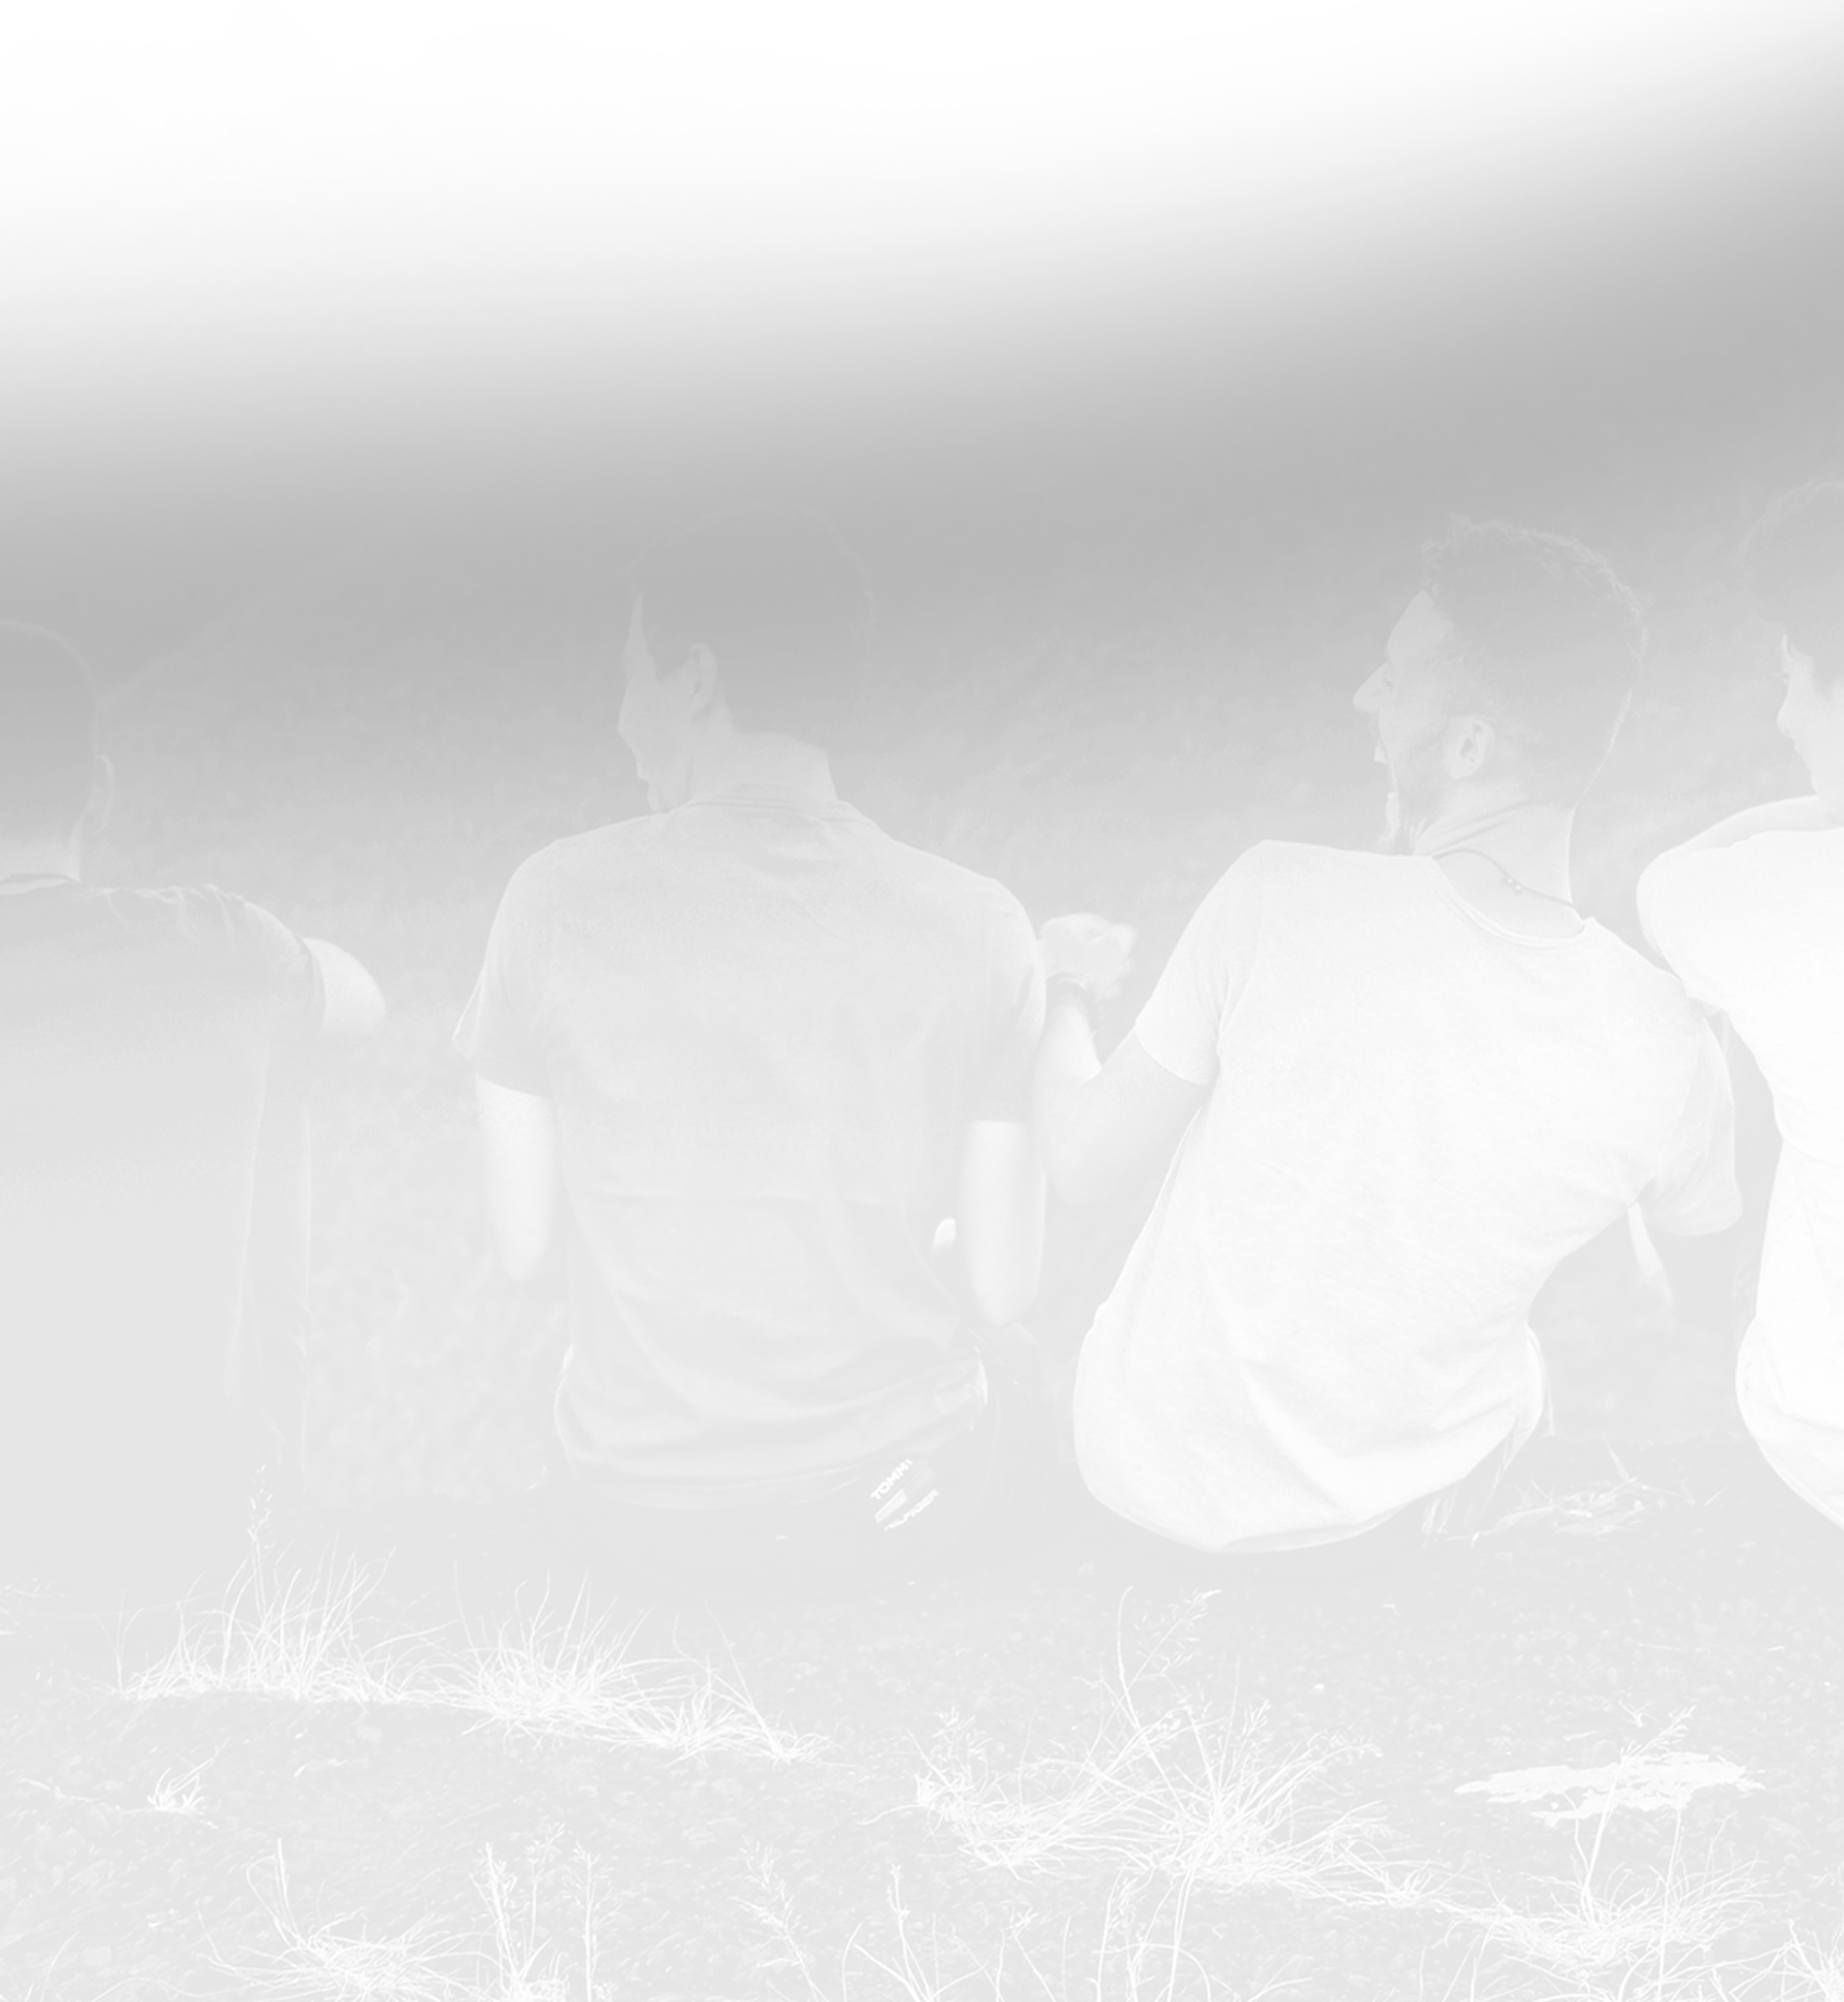
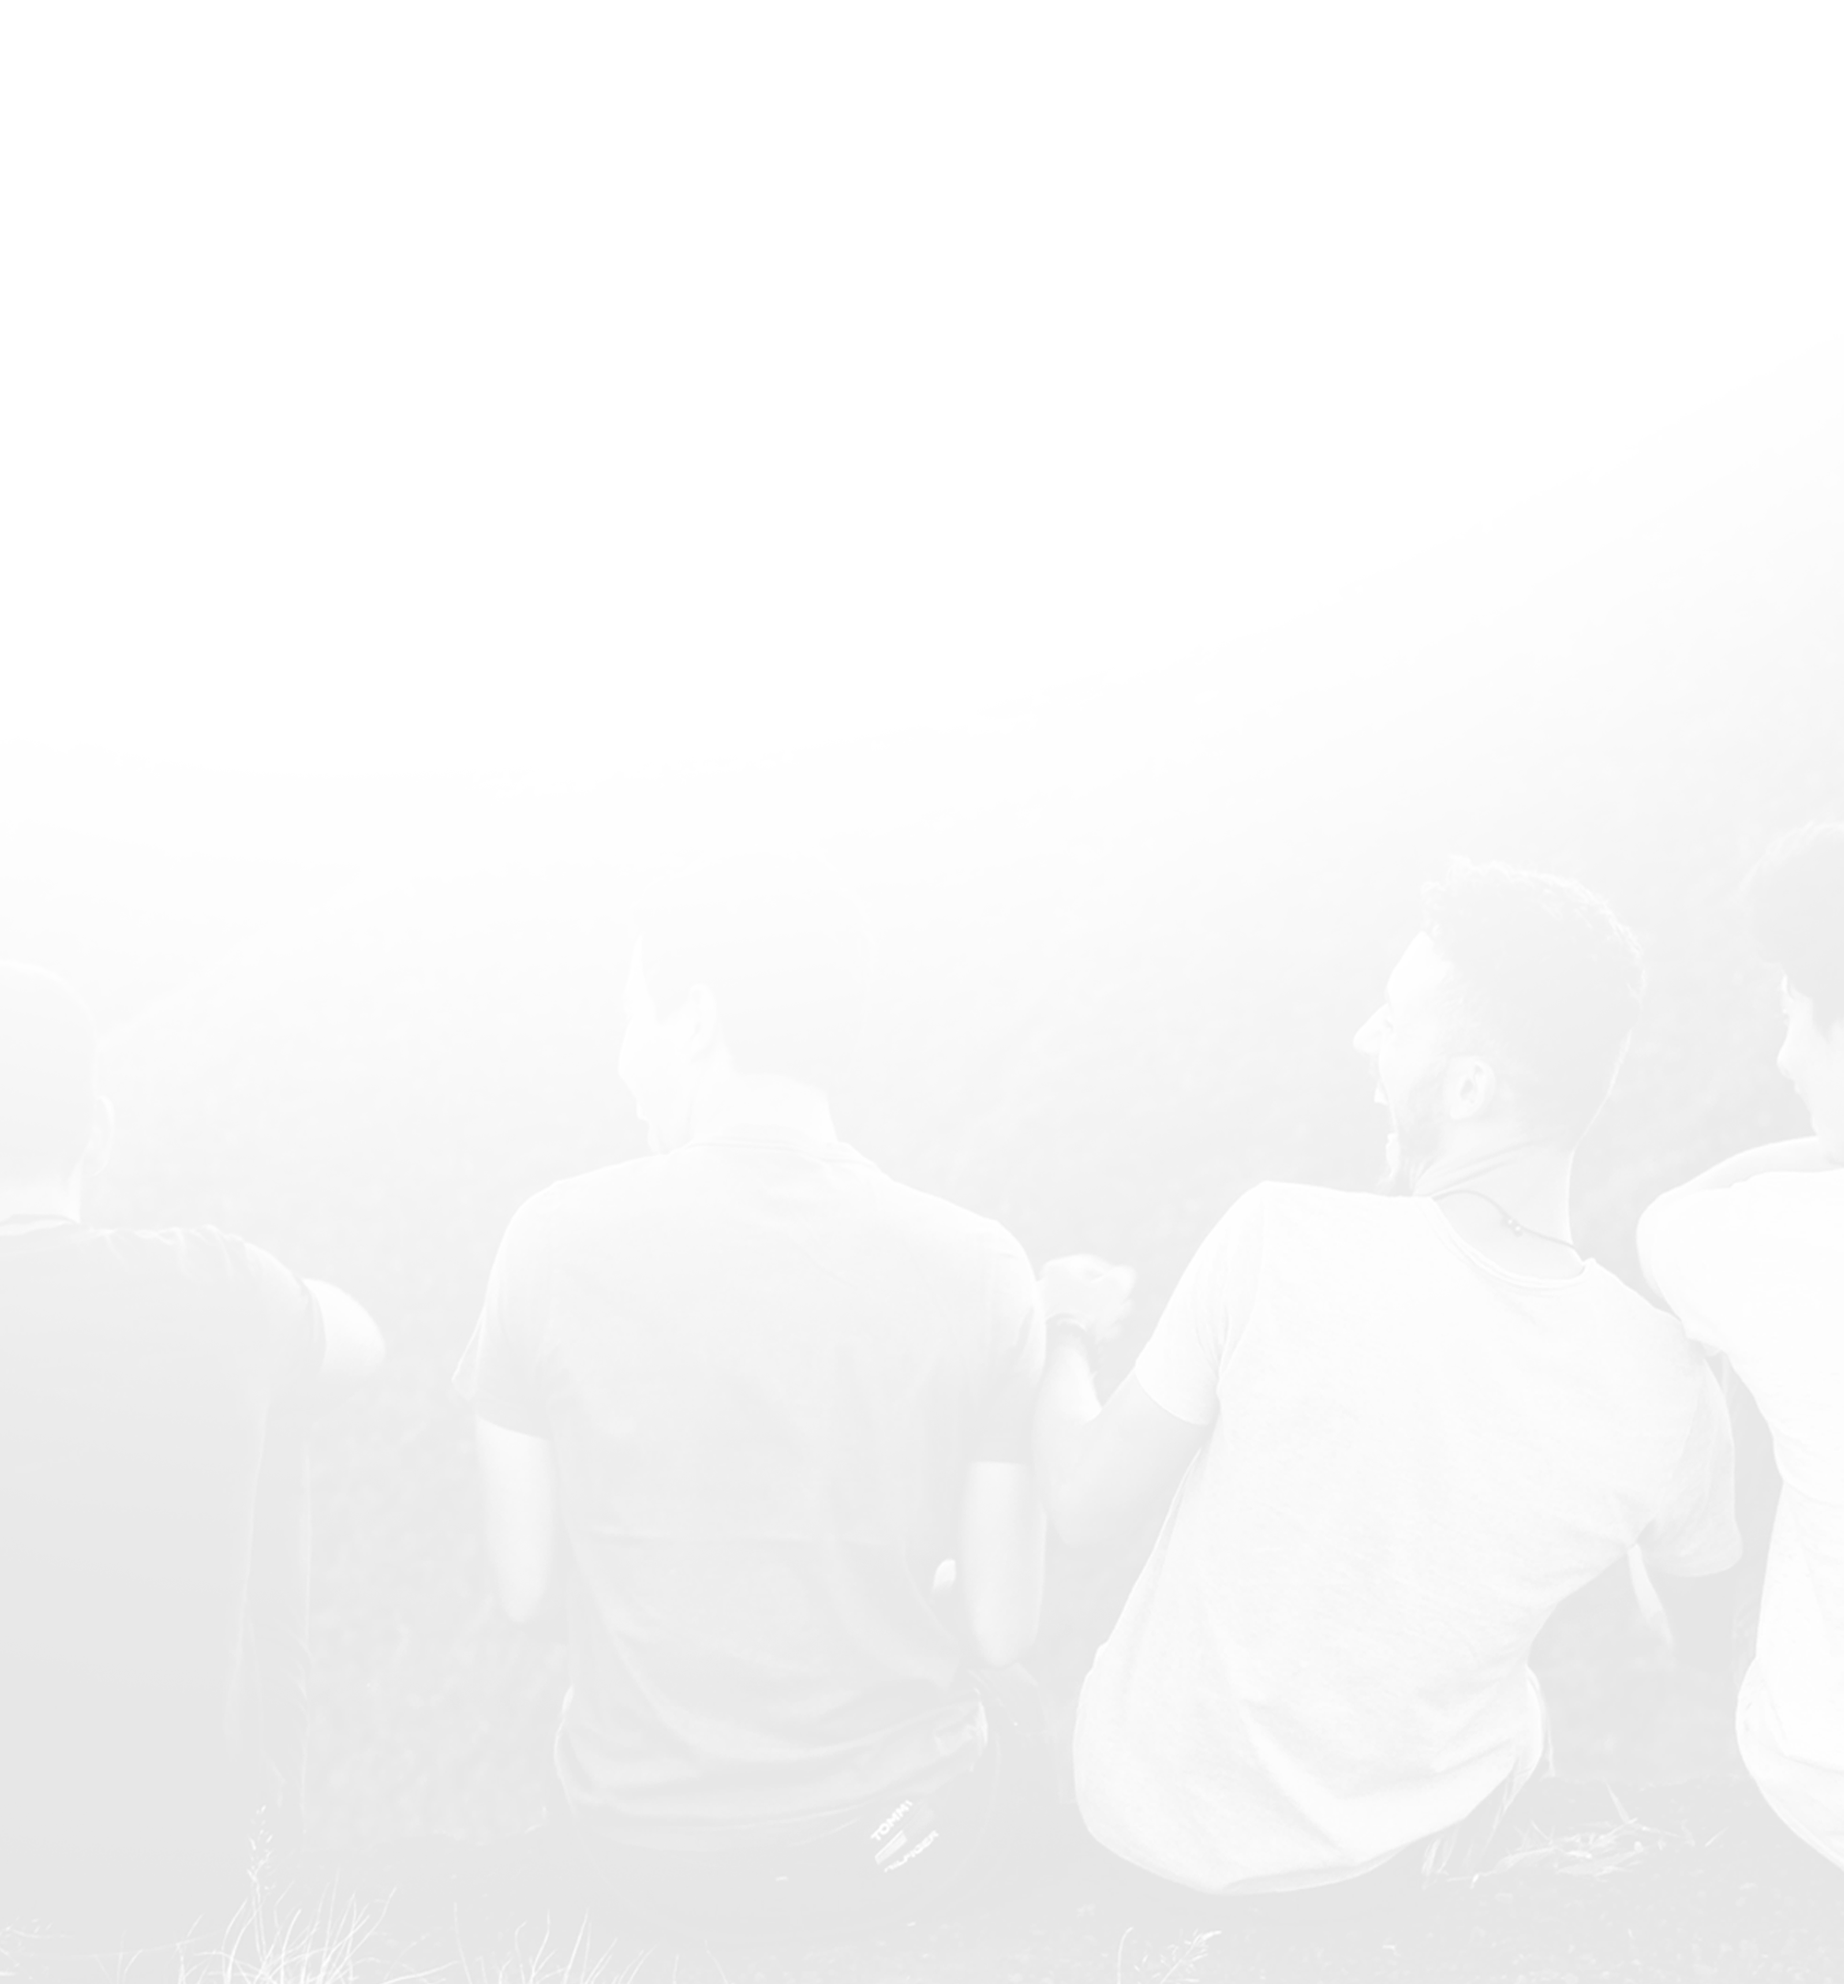
few adjustments

diff --git a/src/App.js b/src/App.js
@@ -1,5 +1,7 @@
 import React from 'react'
 
+import { Box } from '@chakra-ui/react'
+
 import Chakra from './components/chakra'
 import Fonts from './components/fonts'
 
@@ -21,8 +23,14 @@ const App = () => (
     <WorkExpectation />
     <WorkWithTheBest />
     <ViewWorks />
-    <DiscoverCapabilities />
-    <OurPrecess />
+    <Box
+      position="relative"
+      zIndex={-1}
+      bgImage="url(images/background-asset-02.png)"
+    >
+      <DiscoverCapabilities />
+      <OurPrecess />
+    </Box>
     <Client />
     <Contact />
   </Chakra>
